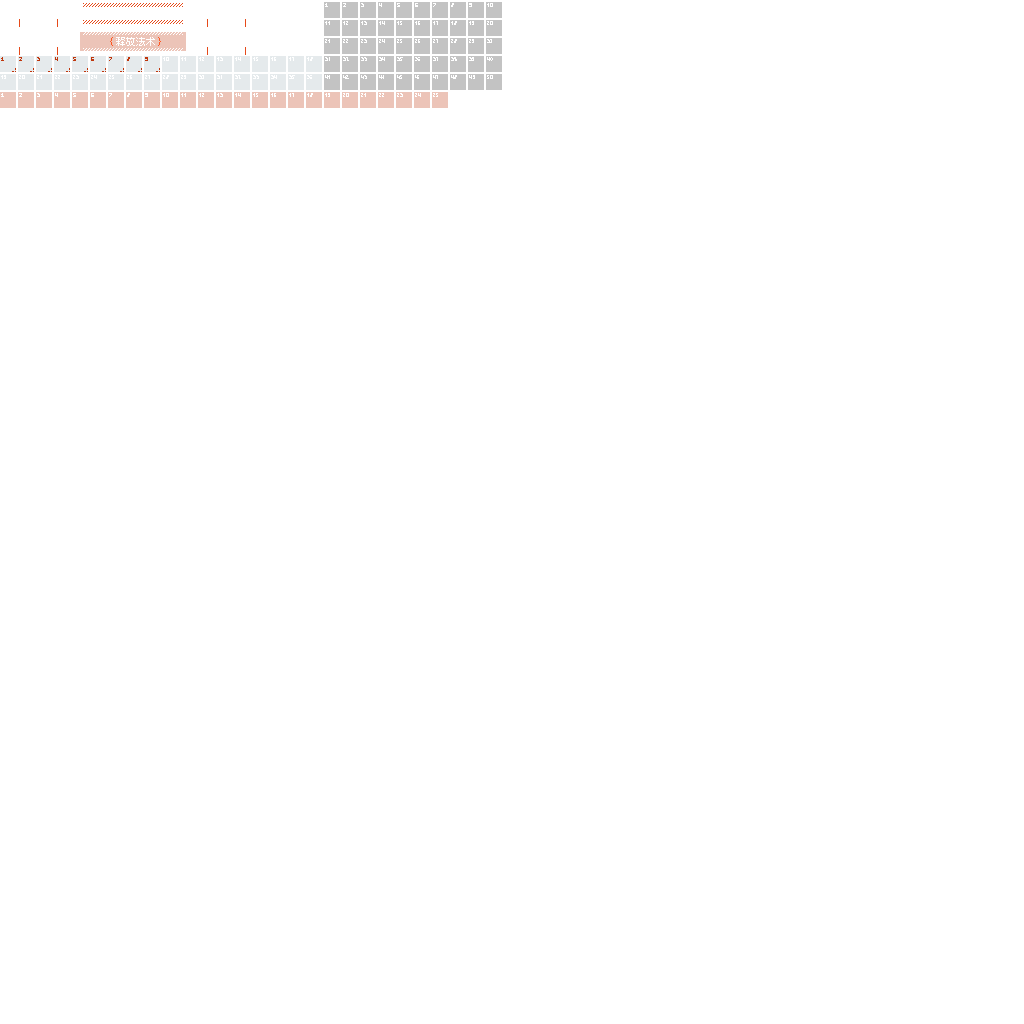
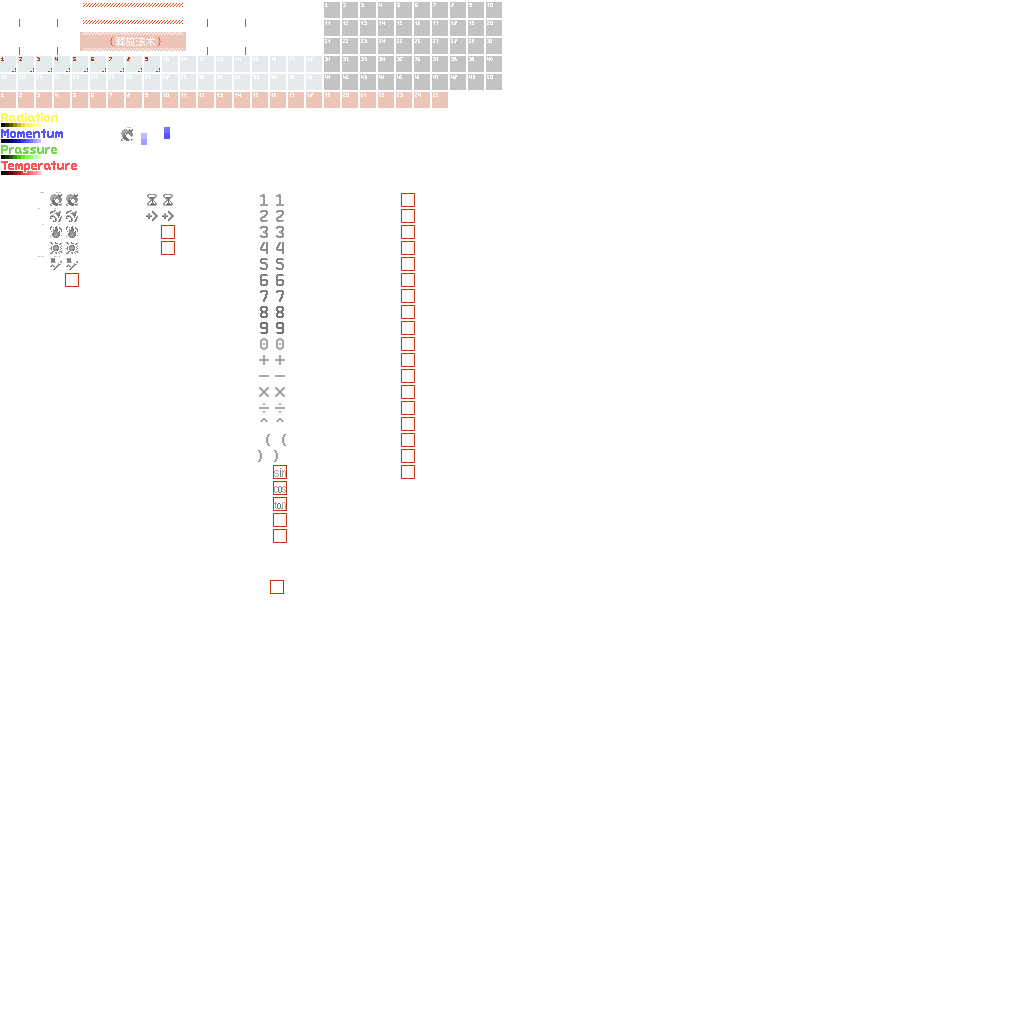
打印数据法术

diff --git a/src/main/java/org/creepebucket/programmable_magic/gui/wand/WandMenu.java b/src/main/java/org/creepebucket/programmable_magic/gui/wand/WandMenu.java
@@ -28,13 +28,13 @@ public class WandMenu extends AbstractContainerMenu {
     private final ContainerLevelAccess levelAccess;
     private final ItemStackHandler baseSpellItemInventory;
     private final ItemStackHandler spellModAdjustItemInventory;
-    private final ItemStackHandler spellModControlItemInventory;
+    private final ItemStackHandler spellModComputeItemInventory;
     private final ItemStackHandler spellModTargetItemInventory;
     private final ItemStackHandler spellStorageInventory;
 
     List<SpellDisplaySlot> listBaseSpellSlot = new ArrayList<>();
     List<SpellDisplaySlot> listSpellModAdjustSlot = new ArrayList<>();
-    List<SpellDisplaySlot> listSpellModControlSlot = new ArrayList<>();
+    List<SpellDisplaySlot> listSpellModComputeSlot = new ArrayList<>();
     List<SpellDisplaySlot> listSpellModTargetSlot = new ArrayList<>();
     List<SpellStorageSlot> listSpellStorageSlot = new ArrayList<>();
 
@@ -73,7 +73,7 @@ public class WandMenu extends AbstractContainerMenu {
 
         List<ItemStack> baseSpells = getItemsFromTag(ModTagKeys.SPELL_BASE_EFFECT);
         List<ItemStack> spellModAdjust = getItemsFromTag(ModTagKeys.SPELL_ADJUST_MOD);
-        List<ItemStack> spellModControl = getItemsFromTag(ModTagKeys.SPELL_CONTROL_MOD);
+        List<ItemStack> spellModCompute = getItemsFromTag(ModTagKeys.SPELL_COMPUTE_MOD);
         List<ItemStack> spellModTarget = getItemsFromTag(ModTagKeys.SPELL_TARGET_MOD);
 
         this.levelAccess = levelAccess;
@@ -81,7 +81,7 @@ public class WandMenu extends AbstractContainerMenu {
         //法术展示
         this.baseSpellItemInventory = new ItemStackHandler(baseSpells.size());
         this.spellModAdjustItemInventory = new ItemStackHandler(spellModAdjust.size());
-        this.spellModControlItemInventory = new ItemStackHandler(spellModControl.size());
+        this.spellModComputeItemInventory = new ItemStackHandler(spellModCompute.size());
         this.spellModTargetItemInventory = new ItemStackHandler(spellModTarget.size());
         this.spellStorageInventory = new ItemStackHandler(this.SLOTS);
 
@@ -92,9 +92,9 @@ public class WandMenu extends AbstractContainerMenu {
         addSlots(SpellDisplayRightX, SpellDisplayTopY, 10, spellModAdjust.size(), spellModAdjustItemInventory, this.listSpellModAdjustSlot,
                 (handler, slotIndex, x, y, menu) ->
                         new SpellDisplaySlot(handler, slotIndex, x, y, menu, spellModAdjust.get(slotIndex)));
-        addSlots(SpellDisplayLeftX, SpellDisplayBottomY, 10, spellModControl.size(), spellModControlItemInventory, this.listSpellModControlSlot,
+        addSlots(SpellDisplayLeftX, SpellDisplayBottomY, 10, spellModCompute.size(), spellModComputeItemInventory, this.listSpellModComputeSlot,
                 (handler, slotIndex, x, y, menu) ->
-                        new SpellDisplaySlot(handler, slotIndex, x, y, menu, spellModControl.get(slotIndex)));
+                        new SpellDisplaySlot(handler, slotIndex, x, y, menu, spellModCompute.get(slotIndex)));
         addSlots(SpellDisplayRightX, SpellDisplayBottomY, 10, spellModTarget.size(), spellModTargetItemInventory, this.listSpellModTargetSlot,
                 (handler, slotIndex, x, y, menu) ->
                         new SpellDisplaySlot(handler, slotIndex, x, y, menu, spellModTarget.get(slotIndex)));
@@ -184,7 +184,7 @@ public class WandMenu extends AbstractContainerMenu {
         ItemStack stack = slot.getItem();
         ItemStack originalStack = stack.copy();
 
-        int totalDisplaySlots = this.listBaseSpellSlot.size() + this.listSpellModAdjustSlot.size() + this.listSpellModControlSlot.size() + this.listSpellModTargetSlot.size();
+        int totalDisplaySlots = this.listBaseSpellSlot.size() + this.listSpellModAdjustSlot.size() + this.listSpellModComputeSlot.size() + this.listSpellModTargetSlot.size();
         int storageSlotsStart = totalDisplaySlots;
         int storageSlotsEnd = storageSlotsStart + this.SLOTS;
         int playerInvStart = storageSlotsEnd;
@@ -280,7 +280,7 @@ public class WandMenu extends AbstractContainerMenu {
 
     @Override
     protected boolean moveItemStackTo(ItemStack stack, int startIndex, int endIndex, boolean reverseDirection) {
-        int displaySlotsEnd = this.listBaseSpellSlot.size() + this.listSpellModAdjustSlot.size() + this.listSpellModControlSlot.size() + this.listSpellModTargetSlot.size();
+        int displaySlotsEnd = this.listBaseSpellSlot.size() + this.listSpellModAdjustSlot.size() + this.listSpellModComputeSlot.size() + this.listSpellModTargetSlot.size();
 
         // 如果移动的目标范围开始于展示槽位区域内，则阻止本次移动，防止物品被放入展示槽。
         if (startIndex < displaySlotsEnd) {
@@ -297,7 +297,7 @@ public class WandMenu extends AbstractContainerMenu {
         // 每次数据同步时，重置所有展示槽位，确保它们不被意外修改
         this.listBaseSpellSlot.forEach(SpellDisplaySlot::resetToDefault);
         this.listSpellModAdjustSlot.forEach(SpellDisplaySlot::resetToDefault);
-        this.listSpellModControlSlot.forEach(SpellDisplaySlot::resetToDefault);
+        this.listSpellModComputeSlot.forEach(SpellDisplaySlot::resetToDefault);
         this.listSpellModTargetSlot.forEach(SpellDisplaySlot::resetToDefault);
     }
 

diff --git a/src/main/java/org/creepebucket/programmable_magic/data/SpellItemModelProvider.java b/src/main/java/org/creepebucket/programmable_magic/data/SpellItemModelProvider.java
@@ -1,0 +1,79 @@
+package org.creepebucket.programmable_magic.data;
+
+import com.google.gson.JsonObject;
+import net.minecraft.data.CachedOutput;
+import net.minecraft.data.DataProvider;
+import net.minecraft.data.PackOutput;
+import net.minecraft.resources.ResourceLocation;
+import net.minecraft.world.item.Item;
+import org.creepebucket.programmable_magic.registries.SpellRegistry;
+
+import java.nio.file.Files;
+import java.nio.file.Path;
+import java.util.ArrayList;
+import java.util.List;
+import java.util.Map;
+import java.util.concurrent.CompletableFuture;
+
+import static org.creepebucket.programmable_magic.Programmable_magic.MODID;
+
+/**
+ * 为所有注册的法术物品生成简单的 item 模型：
+ * parent: minecraft:item/generated
+ * layer0: programmable_magic:spell/<spell_registry_name>
+ * 模型文件名：models/item/spell_display_<spell_registry_name>.json
+ */
+public class SpellItemModelProvider implements DataProvider {
+
+    private final PackOutput output;
+    private final PackOutput.PathProvider modelsProvider;
+    private final PackOutput.PathProvider itemsProvider;
+
+    public SpellItemModelProvider(PackOutput output) {
+        this.output = output;
+        // 通过 PathProvider 确保路径与资源包结构一致（assets/<modid>/models/item/...）
+        this.modelsProvider = output.createPathProvider(PackOutput.Target.RESOURCE_PACK, "models/item");
+        this.itemsProvider = output.createPathProvider(PackOutput.Target.RESOURCE_PACK, "items");
+    }
+
+    @Override
+    public CompletableFuture<?> run(CachedOutput cache) {
+        List<CompletableFuture<?>> futures = new ArrayList<>();
+        for (Map.Entry<java.util.function.Supplier<Item>, java.util.function.Supplier<org.creepebucket.programmable_magic.spells.SpellItemLogic>> entry : SpellRegistry.getRegisteredSpells().entrySet()) {
+            String spellName = entry.getValue().get().getRegistryName();
+            String itemModelName = "spell_display_" + spellName;
+
+            // 1) 生成 models/item/spell_display_<name>.json
+            JsonObject modelJson = new JsonObject();
+            modelJson.addProperty("parent", "minecraft:item/generated");
+            JsonObject textures = new JsonObject();
+            // 使用物品图集路径：assets/<modid>/textures/item/spell/<spellName>.png
+            textures.addProperty("layer0", MODID + ":item/spell/" + spellName);
+            modelJson.add("textures", textures);
+
+            ResourceLocation modelId = ResourceLocation.fromNamespaceAndPath(MODID, itemModelName);
+            Path modelPath = modelsProvider.file(modelId, "json");
+            futures.add(DataProvider.saveStable(cache, modelJson, modelPath));
+            // 兼容清理：删除此前错误生成的双点扩展文件（如果存在）
+            Path wrong = modelsProvider.file(modelId, ".json");
+            try { Files.deleteIfExists(wrong); } catch (Exception ignored) {}
+
+            // 2) 生成 1.21.8 必需的 client item：items/spell_display_<name>.json
+            JsonObject clientItem = new JsonObject();
+            JsonObject model = new JsonObject();
+            model.addProperty("type", "minecraft:model");
+            model.addProperty("model", MODID + ":item/" + itemModelName);
+            clientItem.add("model", model);
+
+            ResourceLocation itemId = ResourceLocation.fromNamespaceAndPath(MODID, itemModelName);
+            Path itemPath = itemsProvider.file(itemId, "json");
+            futures.add(DataProvider.saveStable(cache, clientItem, itemPath));
+        }
+        return CompletableFuture.allOf(futures.toArray(CompletableFuture[]::new));
+    }
+
+    @Override
+    public String getName() {
+        return "Spell Item Models";
+    }
+}

diff --git a/src/main/java/org/creepebucket/programmable_magic/registries/SpellRegistry.java b/src/main/java/org/creepebucket/programmable_magic/registries/SpellRegistry.java
@@ -14,6 +14,14 @@ import org.creepebucket.programmable_magic.spells.base_spell.ExplosionSpell;
 import org.creepebucket.programmable_magic.spells.base_spell.PaintDataSpell;
 import org.creepebucket.programmable_magic.spells.base_spell.VelocitySpell;
 import org.creepebucket.programmable_magic.spells.control_mod.DelaySpell;
+import org.creepebucket.programmable_magic.spells.compute_mod.AdditionSpell;
+import org.creepebucket.programmable_magic.spells.compute_mod.DivisionSpell;
+import org.creepebucket.programmable_magic.spells.compute_mod.MultiplicationSpell;
+import org.creepebucket.programmable_magic.spells.compute_mod.NumberComputeBase;
+import org.creepebucket.programmable_magic.spells.compute_mod.SubtractionSpell;
+import org.creepebucket.programmable_magic.spells.compute_mod.ExponentSpell;
+import org.creepebucket.programmable_magic.spells.compute_mod.OpenParenSpell;
+import org.creepebucket.programmable_magic.spells.compute_mod.CloseParenSpell;
 import org.creepebucket.programmable_magic.spells.target_mod.ProjectileSpell;
 
 import java.util.HashMap;
@@ -35,6 +43,20 @@ public class SpellRegistry {
         registerSpell(DelaySpell::new);
         registerSpell(ProjectileSpell::new);
         registerSpell(PaintDataSpell::new);
+
+        // 计算类：数字（在父类文件内收集）
+        for (var supplier : NumberComputeBase.allNumberSuppliers()) {
+            registerSpell(supplier);
+        }
+
+        // 计算类：运算符（在父类外单独注册）
+        registerSpell(AdditionSpell::new);
+        registerSpell(SubtractionSpell::new);
+        registerSpell(MultiplicationSpell::new);
+        registerSpell(DivisionSpell::new);
+        registerSpell(ExponentSpell::new);
+        registerSpell(OpenParenSpell::new);
+        registerSpell(CloseParenSpell::new);
 
         ITEMS.register(eventBus);
     }

diff --git a/src/main/java/org/creepebucket/programmable_magic/registries/ModItemTagProvider.java b/src/main/java/org/creepebucket/programmable_magic/registries/ModItemTagProvider.java
@@ -37,6 +37,9 @@ public class ModItemTagProvider extends ItemTagsProvider {
                 case CONTROL_MOD:
                     tag(ModTagKeys.SPELL_CONTROL_MOD).add(itemSupplier.get());
                     break;
+                case COMPUTE_MOD:
+                    tag(ModTagKeys.SPELL_COMPUTE_MOD).add(itemSupplier.get());
+                    break;
                 case TARGET_MOD:
                     tag(ModTagKeys.SPELL_TARGET_MOD).add(itemSupplier.get());
                     break;
@@ -45,7 +48,7 @@ public class ModItemTagProvider extends ItemTagsProvider {
 
         this.tag(ModTagKeys.SPELL_MOD)
                 .addTag(ModTagKeys.SPELL_ADJUST_MOD)
-                //.addTag(ModTagKeys.SPELL_COMPUTE_MOD)
+                .addTag(ModTagKeys.SPELL_COMPUTE_MOD)
                 .addTag(ModTagKeys.SPELL_CONTROL_MOD)
                 .addTag(ModTagKeys.SPELL_TARGET_MOD);
 

diff --git a/src/main/java/org/creepebucket/programmable_magic/data/ModDataGenerators.java b/src/main/java/org/creepebucket/programmable_magic/data/ModDataGenerators.java
@@ -3,11 +3,14 @@ package org.creepebucket.programmable_magic.data;
 import net.neoforged.neoforge.data.event.GatherDataEvent;
 import org.creepebucket.programmable_magic.registries.ModBlockTagProvider;
 import org.creepebucket.programmable_magic.registries.ModItemTagProvider;
+import org.creepebucket.programmable_magic.data.SpellItemModelProvider;
 
 public class ModDataGenerators {
     // 使用 Client 子类（与 run config 的 clientData 匹配），保持原先可工作的行为
     public static void gatherData(GatherDataEvent.Client event) {
         event.createProvider(ModBlockTagProvider::new);
         event.createProvider(output -> new ModItemTagProvider(output, event.getLookupProvider()));
+        // 生成法术的模型 + client items（1.21+ 必需）
+        event.createProvider(SpellItemModelProvider::new);
     }
 }

diff --git a/src/main/java/org/creepebucket/programmable_magic/entities/SpellEntity.java b/src/main/java/org/creepebucket/programmable_magic/entities/SpellEntity.java
@@ -102,6 +102,11 @@ public class SpellEntity extends Entity {
             // 执行当前法术
             SpellItemLogic currentSpell = spellSequence.get(currentSpellIndex);
             try {
+                // 向 SpellData 注入执行上下文：当前序列与索引，供计算类法术读取
+                if (spellData != null) {
+                    spellData.setCustomData("__seq", this.spellSequence);
+                    spellData.setCustomData("__idx", this.currentSpellIndex);
+                }
                 boolean shouldContinue = currentSpell.run(caster, spellData);
                 
                 if (shouldContinue) {

diff --git a/src/main/java/org/creepebucket/programmable_magic/spells/control_mod/DelaySpell.java b/src/main/java/org/creepebucket/programmable_magic/spells/control_mod/DelaySpell.java
@@ -2,9 +2,7 @@ package org.creepebucket.programmable_magic.spells.control_mod;
 
 import net.minecraft.network.chat.Component;
 import net.minecraft.world.entity.player.Player;
-import net.minecraft.world.item.ItemStack;
 import org.creepebucket.programmable_magic.spells.SpellData;
-import org.creepebucket.programmable_magic.spells.SpellItemLogic;
 
 import java.util.ArrayList;
 import java.util.List;
@@ -48,4 +46,5 @@ public class DelaySpell extends BaseControlModLogic {
         tooltip.add(Component.translatable("tooltip.programmable_magic.mana_cost_power_1.05"));
         return tooltip;
     }
-} 
+}
+
